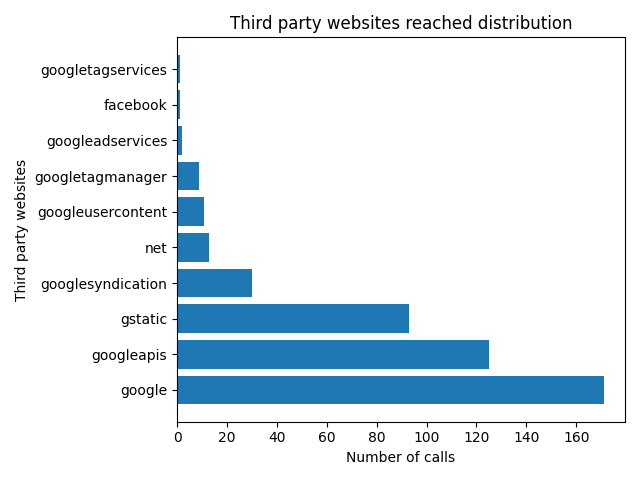
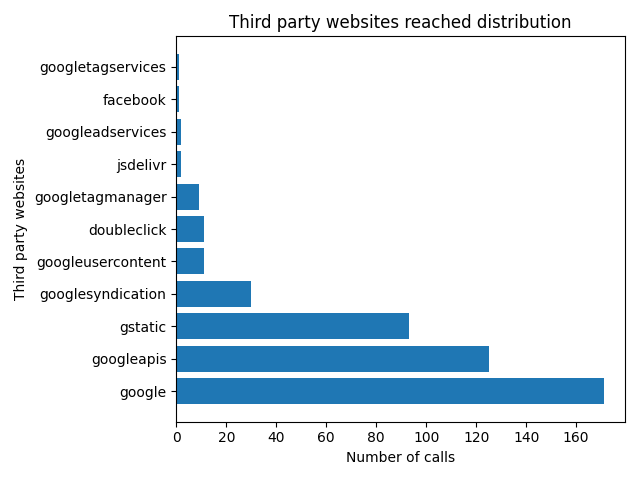
refined the core domain function

diff --git a/functions.py b/functions.py
@@ -27,7 +27,7 @@ def get_core_domain(hostname: str) -> str | None:
     if not hostname:
         return None
 
-    ignore = {"com", "safeframe"}   # to reduce noise when filtering the domains
+    ignore = {"com", "safeframe", "net"}   # to reduce noise when filtering the domains
     labels = [label.lower() for label in hostname.split(".") if label.lower() not in ignore]
 
     if not labels:
@@ -47,3 +47,4 @@ def create_chart(counts: pd.DataFrame):
 
     plt.tight_layout()
     plt.show()
+

diff --git a/README.md b/README.md
@@ -1,15 +1,20 @@
-# ThirdPartyWebsites_Analyzer
-Created for a university assignment, checks the percentage of third-party websites contacted when visiting the top 25 websites.
-## Dependencies
-- Pandas
-- Matplotlib
-## Slicing:
+# Third Party Websites Analyzer
 
-urls["domain"] = urls["url"].apply(
-    lambda u: urlparse(u).hostname.split(".")[-2] if urlparse(u).hostname else None
-)
-✅ How it works
-- urlparse(u).hostname → extracts the hostname from the URL. "https://oauthaccountmanager.googleapis.com/v1/" → "oauthaccountmanager.googleapis.com"
-- if urlparse(u).hostname else None → safely handles malformed URLs or missing hostnames.
+## Project Overview
 
-This will give you a new column domain containing exactly what you want.
+The goal of this project is to analyze which third-party websites are contacted during normal user interactions on an iOS device, comparing them against the Ghostery **Top 25 Trackers** list.
+
+## Setup
+
+**Hardware & OS**
+- **MacBook Air M2** — macOS 26.2 (Tahoe Beta 1)  
+- **iPhone 14** — iOS 26
+
+The MacBook was used to run **mitmproxy**, acting as an HTTP(S) proxy.  
+A mitmproxy root certificate was installed on both devices to allow HTTPS traffic inspection.
+
+## Data Collection
+
+All network flows generated during typical app usage on the iPhone were routed through the MacBook’s proxy.  
+The captured traffic was exported by mitmproxy in **HAR (HTTP Archive) JSON format**, which served as the dataset for analysis.
+
